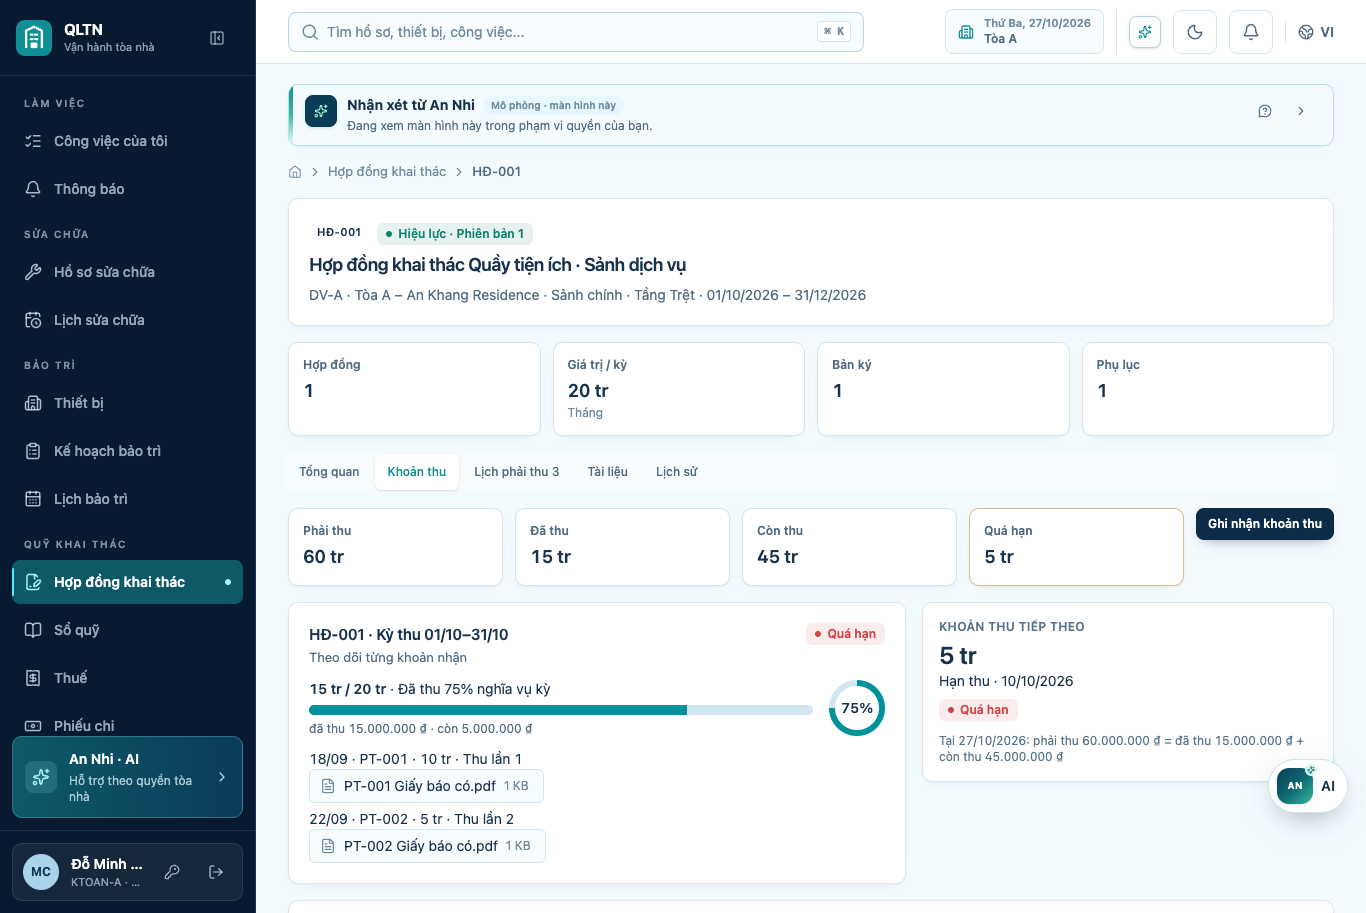
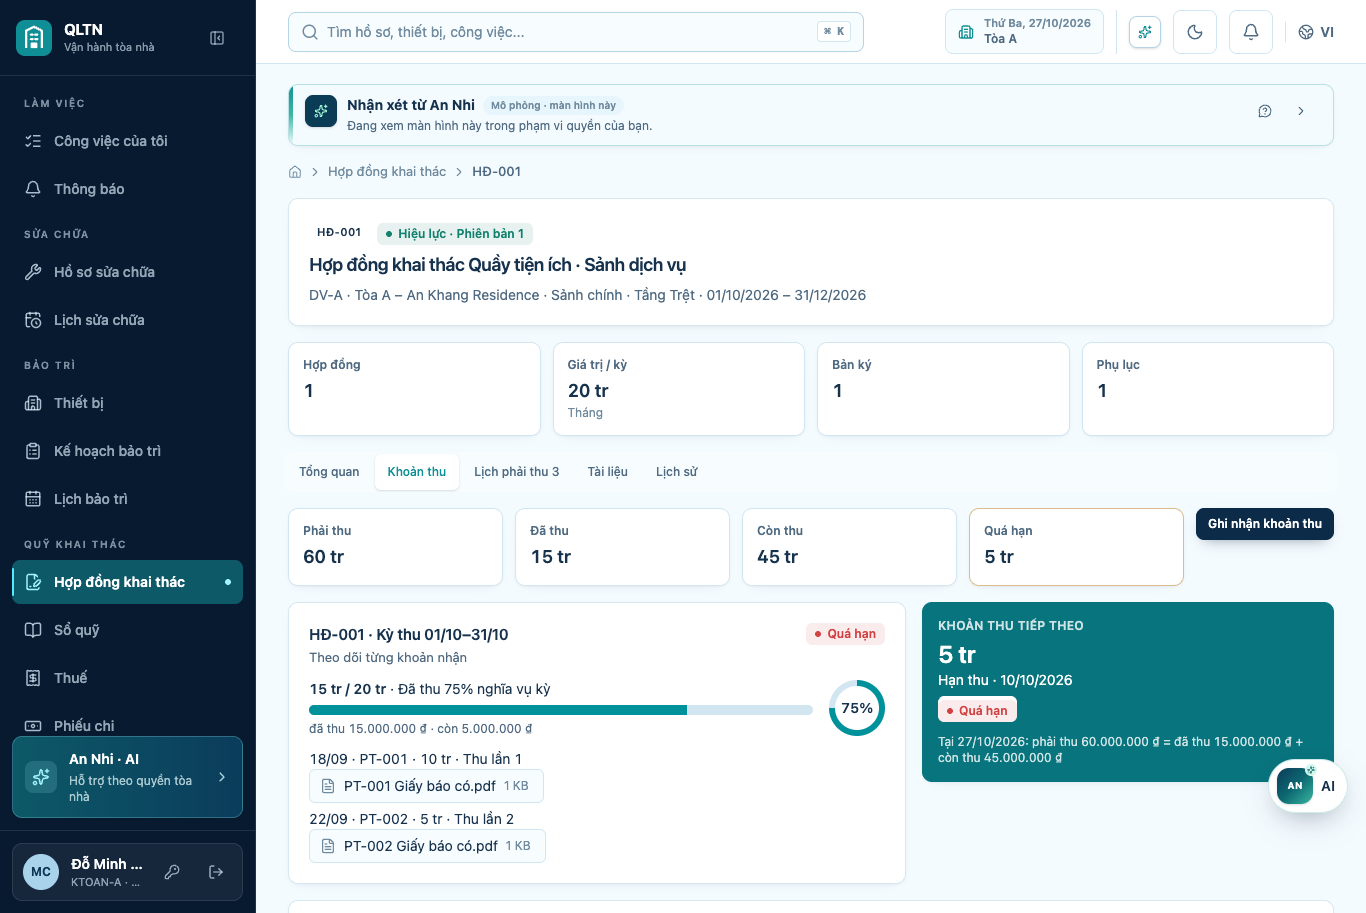
fix(fund): full account number for Kế toán and BQT (F-S3-01); next payment card in accent colours
BR-F3-02: the API gives the whole account number only to fund readers and
the last four digits to anyone else; the ledger header shows the whole number.
Unit, e2e and web tests cover it. The 'Khoản thu tiếp theo' card uses
accent-strong with accent-fg (dark in both themes) and keeps its status chip
on a light background. Screenshots F3-1 and F3-2 retaken.

Changed region(s): [[0.6764, 0.644, 0.9839, 0.8587]]

diff --git a/api-qltn/src/modules/fund/funds.service.ts b/api-qltn/src/modules/fund/funds.service.ts
@@ -12,7 +12,15 @@ import type { FundReasonDto, FundSetupDto, FundVersionDto, LedgerQueryDto } from
 import { FundLedgerEntry } from './entities/fund-ledger-entry.entity';
 import { Fund, type FundKind } from './entities/fund.entity';
 import { FundLedgerService } from './fund-ledger.service';
-import { assertFundApprove, assertFundOperate, assertFundView, isVnd, validateReason, vnd } from './fund-rules';
+import {
+  assertFundApprove,
+  assertFundOperate,
+  assertFundView,
+  isVnd,
+  seesFullAccount,
+  validateReason,
+  vnd,
+} from './fund-rules';
 import { fundView, ledgerRow, type FundView, type LedgerPage } from './fund-views';
 
 const MONTH = /^\d{4}-(0[1-9]|1[0-2])$/;
@@ -41,7 +49,7 @@ export class FundsService {
       this.dataSource.manager,
       funds.map((fund) => fund.id),
     );
-    return funds.map((fund) => fundView(fund, withLines.has(fund.id)));
+    return funds.map((fund) => fundView(fund, withLines.has(fund.id), seesFullAccount(actor)));
   }
 
   async get(actor: AuthenticatedUser, id: string): Promise<FundView> {
@@ -49,7 +57,7 @@ export class FundsService {
     if (!fund || !actor.buildingIds.includes(fund.buildingId)) throw notFound('Không tìm thấy quỹ.');
     assertFundView(actor);
     const withLines = await this.fundsWithLines(this.dataSource.manager, [fund.id]);
-    return fundView(fund, withLines.has(fund.id));
+    return fundView(fund, withLines.has(fund.id), seesFullAccount(actor));
   }
 
   /**
@@ -110,7 +118,7 @@ export class FundsService {
         };
       }
       await this.save(manager, actor, fund, action, dto.reason ?? undefined);
-      return fundView(fund, lines.length > 0);
+      return fundView(fund, lines.length > 0, seesFullAccount(actor));
     });
   }
 
@@ -127,7 +135,7 @@ export class FundsService {
         pendingOpening: null,
       });
       await this.save(manager, actor, fund, 'approveFundOpeningChange', pending.reason);
-      return fundView(fund, lines.length > 0);
+      return fundView(fund, lines.length > 0, seesFullAccount(actor));
     });
   }
 
@@ -139,7 +147,7 @@ export class FundsService {
       errors.throwIfAny();
       fund.pendingOpening = null;
       await this.save(manager, actor, fund, 'rejectFundOpeningChange', dto.reason);
-      return fundView(fund, true);
+      return fundView(fund, true, seesFullAccount(actor));
     });
   }
 
@@ -153,7 +161,7 @@ export class FundsService {
     if (!fund || !actor.buildingIds.includes(fund.buildingId)) throw notFound('Không tìm thấy quỹ.');
     assertFundView(actor);
     const lines = await this.ledger.lines(this.dataSource.manager, fund.id);
-    const view = fundView(fund, lines.length > 0);
+    const view = fundView(fund, lines.length > 0, seesFullAccount(actor));
     const { first, last } = monthBounds(query.month);
     if (fund.openingDate === null || fund.openingBalanceVnd === null || last < fund.openingDate)
       return { fund: view, month: query.month, figures: null, openingLine: null, rows: [] };

diff --git a/web/src/features/exploitation/components/NextDueCard.tsx b/web/src/features/exploitation/components/NextDueCard.tsx
@@ -5,22 +5,26 @@ import { formatDate } from '@/utils/date';
 import { formatVndText } from '@/utils/money';
 import { RECEIVABLE_STATUS_TEXT, RECEIVABLE_STATUS_TONE, shortVnd } from '../contract-ui';
 
-/** "Khoản thu tiếp theo" (BR-F3-08, D1 p. 10): the earliest period still owed; the check line always shows. */
+/**
+ * "Khoản thu tiếp theo" (BR-F3-08, D1 p. 10): the earliest period still owed; the check line always shows. A dark card
+ * in both themes: accent-strong with accent-fg (ui-brief §1; --navy is white in light mode).
+ */
 export const NextDueCard = ({ collection }: { collection: Collection }) => (
-  <section aria-label="Khoản thu tiếp theo" className="rounded-xl border border-line bg-navy p-4 text-navy-ink shadow-card">
-    <p className="text-xs font-semibold uppercase tracking-wide text-navy-ink-2">Khoản thu tiếp theo</p>
+  <section aria-label="Khoản thu tiếp theo" className="rounded-xl bg-accent-strong p-4 text-accent-fg shadow-card">
+    <p className="text-xs font-semibold uppercase tracking-wide opacity-80">Khoản thu tiếp theo</p>
     {collection.next ? (
       <>
         <p className="mt-1 text-2xl font-semibold tabular-nums">{shortVnd(collection.next.remainingVnd)}</p>
         <p className="text-sm">Hạn thu · {formatDate(collection.next.dueDate)}</p>
-        <p className="mt-1">
+        {/* A light chip keeps the status colour readable on the dark card. */}
+        <p className="mt-1.5 inline-block rounded-md bg-surface">
           <StatusPill tone={RECEIVABLE_STATUS_TONE[collection.next.status]}>{RECEIVABLE_STATUS_TEXT[collection.next.status]}</StatusPill>
         </p>
       </>
     ) : (
       <p className="mt-1 text-sm">Đã thu đủ các kỳ.</p>
     )}
-    <p className="mt-3 text-xs tabular-nums text-navy-ink-2">
+    <p className="mt-3 text-xs tabular-nums opacity-80">
       Tại {formatDate(todayVn())}: phải thu {formatVndText(collection.dueVnd)} = đã thu {formatVndText(collection.paidVnd)} + còn thu{' '}
       {formatVndText(collection.remainingVnd)}
     </p>

diff --git a/web/src/features/fund/FundPage.tsx b/web/src/features/fund/FundPage.tsx
@@ -21,7 +21,7 @@ import { FundSetupForm } from './components/FundSetupForm';
 import { FundToolbar } from './components/FundToolbar';
 import { LedgerTable } from './components/LedgerTable';
 import { PendingOpeningNotice } from './components/PendingOpeningNotice';
-import { CATEGORY_TEXT, DIRECTION_TEXT, monthText } from './fund-ui';
+import { CATEGORY_TEXT, DIRECTION_TEXT, accountText, monthText } from './fund-ui';
 import { useFundScope } from './useFundScope';
 
 const CATEGORIES = Object.entries(CATEGORY_TEXT) as Array<[LedgerCategory, string]>;
@@ -51,7 +51,7 @@ const FundPage = () => {
     <PageHeader
       title="Sổ quỹ khai thác"
       description={
-        fund.openingDate ? `Tài khoản ${fund.accountMasked ?? '—'} · Số liệu theo sổ, chưa đối soát sao kê` : 'Quỹ chưa được thiết lập.'
+        fund.openingDate ? `Tài khoản ${accountText(fund)} · Số liệu theo sổ, chưa đối soát sao kê` : 'Quỹ chưa được thiết lập.'
       }
       actions={canOperate && fund.openingDate ? <Button variant="secondary" onClick={() => setEditing(true)}>Sửa thiết lập</Button> : null}
     />

diff --git a/web/src/features/fund/fund-ui.ts b/web/src/features/fund/fund-ui.ts
@@ -1,6 +1,6 @@
 import type { StatusTone } from '@/components/ui/badge';
 import { vndInWords } from '@/domain/payment';
-import type { LedgerCategory, LedgerDirection, VoucherCategory, VoucherStatus } from '@/services/fund-api';
+import type { Fund, LedgerCategory, LedgerDirection, VoucherCategory, VoucherStatus } from '@/services/fund-api';
 import { formatVndText } from '@/utils/money';
 
 /** BR-F3-03 wording: "Thu theo hợp đồng khai thác", never "thanh toán" (FG-05). */
@@ -76,6 +76,9 @@ export const spokenVnd = (amountVnd: string, direction?: LedgerDirection): strin
   if (!direction) return words;
   return `${direction === 'IN' ? 'cộng' : 'trừ'} ${words}`;
 };
+
+/** BR-F3-02: the full number when the API gives it (Kế toán, BQT), else the last four digits. */
+export const accountText = (fund: Pick<Fund, 'accountNo' | 'accountMasked'>): string => fund.accountNo ?? fund.accountMasked ?? '—';
 
 /** "2026-11" → "Tháng 11/2026". */
 export const monthText = (month: string): string => `Tháng ${month.slice(5)}/${month.slice(0, 4)}`;

diff --git a/api-qltn/test/exploitation-fund.e2e-spec.ts b/api-qltn/test/exploitation-fund.e2e-spec.ts
@@ -15,6 +15,8 @@ import { createApp, dataOf, errorFields, errorOf, signIn, type Session } from '.
 interface Fund {
   id: string;
   buildingId: string;
+  accountNo: string | null;
+  accountMasked: string | null;
   openingDate: string | null;
   openingBalanceVnd: string | null;
   pendingOpening: { openingBalanceVnd: string } | null;
@@ -295,6 +297,10 @@ describe('Exploitation fund, ledger, taxes and vouchers, F-S3 (e2e)', () => {
         })
         .expect(200),
     );
+    // BR-F3-02: Kế toán and BQT see the whole account number.
+    expect(fundB).toMatchObject({ accountNo: '0071000000002', accountMasked: '****0002' });
+    const seenByBoard = dataOf<Fund[]>(await bqt.get('/api/funds').expect(200)).find((row) => row.id === fundB.id);
+    expect(seenByBoard).toMatchObject({ accountNo: '0071000000002' });
     const page = await ledger(fundB.id, '2026-11');
     expect(page.openingLine).toEqual({ date: '2026-11-01', amountVnd: '50000000' });
     expect(page.figures).toMatchObject({ openingVnd: '50000000', closingVnd: '50000000' });

diff --git a/api-qltn/src/modules/fund/fund-views.ts b/api-qltn/src/modules/fund/fund-views.ts
@@ -7,8 +7,9 @@ export interface FundView {
   buildingId: string;
   kind: FundKind;
   bankName: string | null;
+  /** BR-F3-02: the full number for Kế toán and BQT only; null for anyone else. */
   accountNo: string | null;
-  /** "****0001" for headers (BR-F3-02). */
+  /** "****0001": the last four digits, for anyone else. */
   accountMasked: string | null;
   accountHolder: string | null;
   openingDate: string | null;
@@ -49,12 +50,12 @@ export interface LedgerPage {
   rows: LedgerRow[];
 }
 
-export const fundView = (fund: Fund, hasLines: boolean): FundView => ({
+export const fundView = (fund: Fund, hasLines: boolean, fullAccount: boolean): FundView => ({
   id: fund.id,
   buildingId: fund.buildingId,
   kind: fund.kind,
   bankName: fund.bankName,
-  accountNo: fund.accountNo,
+  accountNo: fullAccount ? fund.accountNo : null,
   accountMasked: maskAccount(fund.accountNo),
   accountHolder: fund.accountHolder,
   openingDate: fund.openingDate,

diff --git a/web/src/features/fund/fund-ui.test.ts b/web/src/features/fund/fund-ui.test.ts
@@ -1,0 +1,15 @@
+import { accountText, signedVnd, spokenVnd } from './fund-ui';
+
+describe('fund-ui', () => {
+  it('shows the full account number when the API gives it, else the last four digits (BR-F3-02)', () => {
+    expect(accountText({ accountNo: '0071000000001', accountMasked: '****0001' })).toBe('0071000000001');
+    expect(accountText({ accountNo: null, accountMasked: '****0001' })).toBe('****0001');
+    expect(accountText({ accountNo: null, accountMasked: null })).toBe('—');
+  });
+
+  it('signs amounts and reads them in words', () => {
+    expect(signedVnd('IN', '10000000')).toBe('+10.000.000 ₫');
+    expect(signedVnd('OUT', '3000000')).toBe('−3.000.000 ₫');
+    expect(spokenVnd('10000000', 'IN')).toBe('cộng mười triệu đồng');
+  });
+});

diff --git a/api-qltn/src/modules/fund/fund-rules.ts b/api-qltn/src/modules/fund/fund-rules.ts
@@ -24,6 +24,10 @@ export const validateReason = (errors: FieldErrors, value: string | undefined, f
   errors.when(length > REASON_MAX, field, `Lý do tối đa ${REASON_MAX} ký tự.`);
 };
 
+/** BR-F3-02: the full account number shows to Kế toán and BQT; anyone else sees its last four digits. */
+export const seesFullAccount = (actor: AuthenticatedUser): boolean =>
+  hasCapability(actor, 'FUND_VIEW') || hasCapability(actor, 'FUND_OPERATE');
+
 /** BR-F3-14: Kế toán and BQT read the fund; BQL never (D-F3-6). */
 export const assertFundView = (actor: AuthenticatedUser): void => {
   if (!hasCapability(actor, 'FUND_VIEW')) throw forbidden('Bạn không có quyền xem sổ quỹ.');

diff --git a/api-qltn/src/modules/fund/fund-views.spec.ts b/api-qltn/src/modules/fund/fund-views.spec.ts
@@ -1,0 +1,11 @@
+import type { Fund } from './entities/fund.entity';
+import { fundView } from './fund-views';
+
+const fund = { id: 'f1', buildingId: 'b1', kind: 'KHAI_THAC', accountNo: '0071000000001', version: 1 } as Fund;
+
+describe('fundView (SPEC F-S3 BR-F3-02)', () => {
+  it('gives Kế toán and BQT the full account number, anyone else only the last four digits', () => {
+    expect(fundView(fund, false, true)).toMatchObject({ accountNo: '0071000000001', accountMasked: '****0001' });
+    expect(fundView(fund, false, false)).toMatchObject({ accountNo: null, accountMasked: '****0001' });
+  });
+});

diff --git a/web/src/services/fund-api.ts b/web/src/services/fund-api.ts
@@ -14,6 +14,7 @@ export interface Fund {
   buildingId: string;
   kind: 'KHAI_THAC' | 'BAO_TRI';
   bankName: string | null;
+  /** BR-F3-02: full for Kế toán and BQT, null for anyone else. */
   accountNo: string | null;
   accountMasked: string | null;
   accountHolder: string | null;

diff --git a/docs/product/features/F-thu-chi-quy-khai-thac/handoff.md b/docs/product/features/F-thu-chi-quy-khai-thac/handoff.md
@@ -83,6 +83,12 @@
 | AC-F3.17 | e2e "AC-F3.17" (seed ra 60, chạy lại không thêm dòng); seed trên `qltn_dev` |
 | AC-F3.18 | ảnh F3-1…F3-10; 375px không cuộn ngang; bảng có `th scope` và `tfoot`; số tiền đọc thành chữ; thanh tiến độ `role="progressbar"`; mất mạng thì khóa nút ghi (chưa giả lập trong trình duyệt). Test F-S1, F-S2 vẫn đạt |
 
+### Sửa sau review (P2 F-S3-01)
+- **Số tài khoản (BR-F3-02):** API chỉ trả số tài khoản đầy đủ (`accountNo`) cho Kế toán và BQT; người khác chỉ nhận `accountMasked` (****0001). Trang "Sổ quỹ" hiện số đầy đủ khi có. Ảnh F3-1 chụp lại ở góc nhìn Kế toán: "Tài khoản 0071000000001".
+- **Test:** unit `fund-views.spec`; e2e AC-F3.1 kiểm Kế toán và BQT đều nhận số đầy đủ; test web `fund-ui.test` (`accountText`).
+- **Thẻ "Khoản thu tiếp theo"** (theo brief đã sửa trên main): nền `--accent-strong`, chữ `--accent-fg`, đậm ở cả hai chế độ. Nhãn trạng thái đặt trên nền sáng để đủ tương phản. Ảnh F3-2 chụp lại.
+- **Gates sau khi sửa:** API format, tsc và eslint sạch; unit 147/147; e2e `exploitation-fund` 13/13. Web `tsc -b` sạch; vitest 597/597. Script trình duyệt đạt.
+
 ### Test đã chạy
 - **API:**
   - `format:check`, `tsc --noEmit`, eslint đều sạch.
@@ -90,11 +96,10 @@
   - e2e `exploitation-fund` 13/13.
   - Hồi quy e2e: `exploitation-fund`, `exploitation-contracts`, `exploitation`, `attachments`, `role-matrix`, `maintenance-execution`, `maintenance-plans`, `records`, `audit-log`: 92/92.
 - **Web:** `tsc -b` sạch; vitest 595/595.
-- **Trình duyệt:** `supporting/f-s3-fund-check.mjs`, ảnh lưu ở `supporting/evidence/`. Mỗi lần chạy, script tạo thêm một phiếu chi `[TEST F3] …` chờ duyệt trên `qltn_dev` (hiện có PC-003, PC-004).
+- **Trình duyệt:** `supporting/f-s3-fund-check.mjs`, ảnh lưu ở `supporting/evidence/`. Mỗi lần chạy, script tạo thêm một phiếu chi `[TEST F3] …` chờ duyệt trên `qltn_dev` (hiện có PC-003 đến PC-006).
 - **Nhật ký:** dòng thời gian trên trang phiếu chi hiện nhãn tiếng Việt cho thao tác và trạng thái của F-S3.
 
 ### Còn lại / ngoài phạm vi
 - Đối soát sao kê (F-S4); hoàn cọc, báo cáo, thanh lý (F-S5).
 - Nhãn nhật ký cho các thao tác của F-S1 và F-S2 vẫn còn thiếu (đã có từ trước); F-S3 đã thêm nhãn cho các thao tác của mình.
-- Ở chế độ sáng, token `--navy` là màu trắng, nên thẻ "Khoản thu tiếp theo" chỉ đậm ở chế độ tối.
 - Nút AI 32px vẫn là residue chung.
